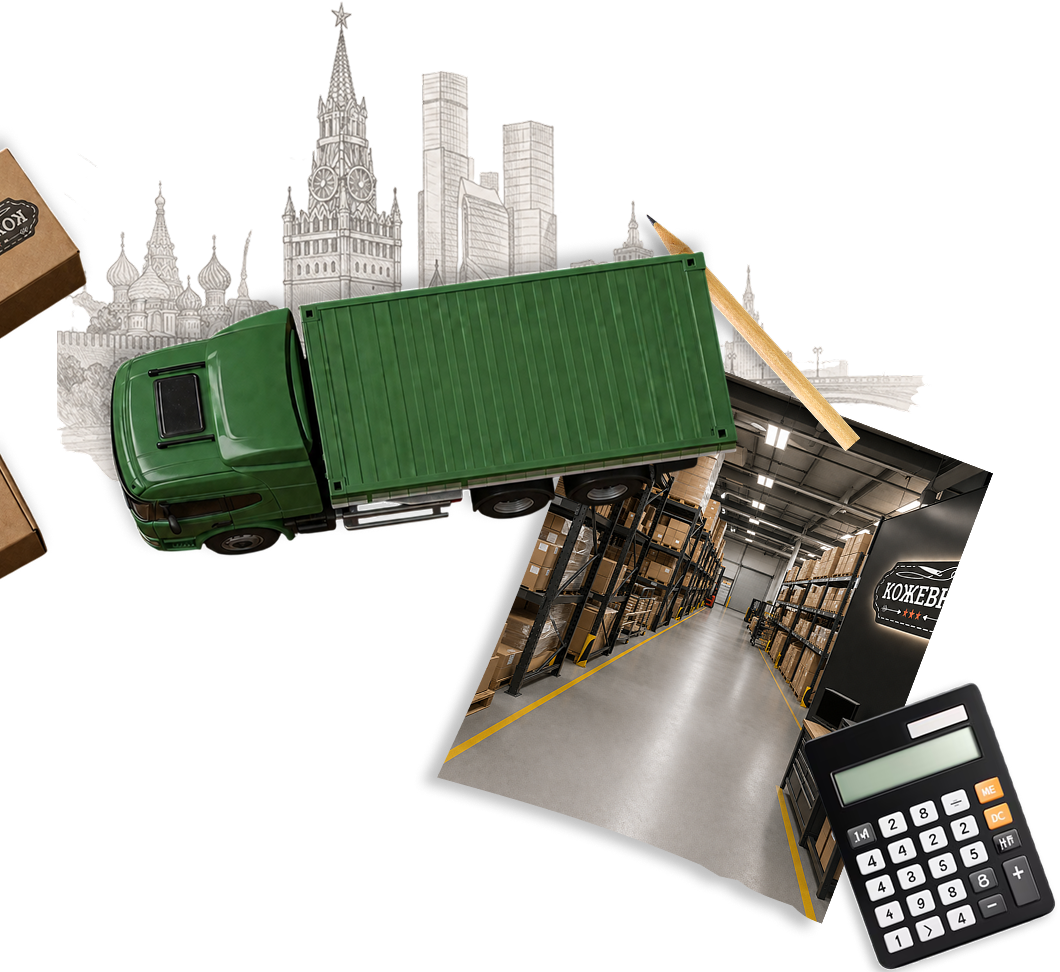
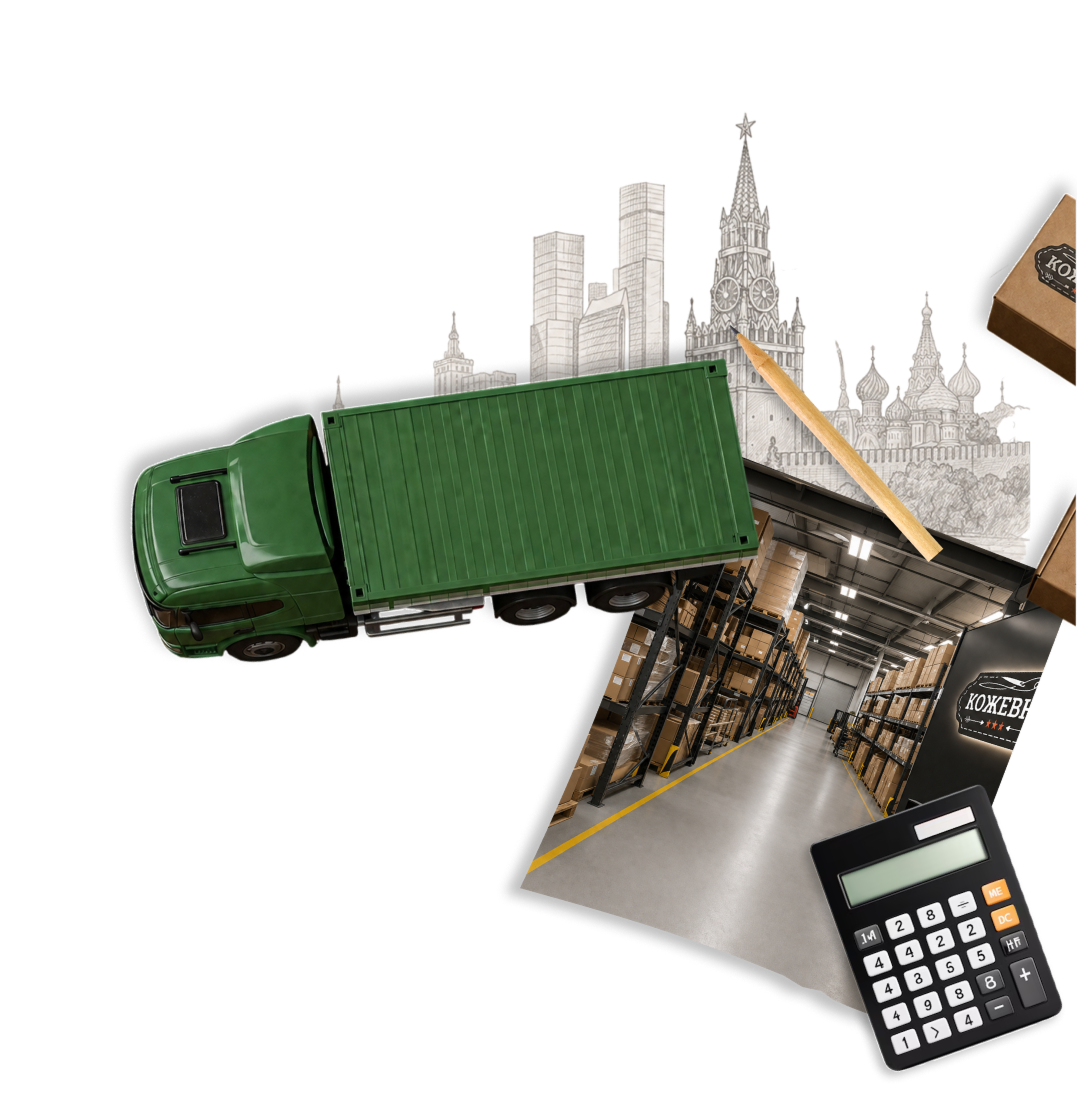
Обновление

diff --git a/css/styles.css b/css/styles.css
@@ -28,7 +28,7 @@
   --split-block-height: clamp(560px, 78vh, 860px);
   --products-visual-offset-top: clamp(48px, 9vh, 108px);
   --products-shift-y: clamp(100px, 15vh, 170px);
-  --nearby-visual-height: clamp(480px, 86vh, 920px);
+  --nearby-visual-height: clamp(560px, 100vh, 1120px);
   --process-visual-height: clamp(800px, 125vh, 1580px);
   --process-visual-top: clamp(56vh, 66vh, 76vh);
   --process-cards-height: clamp(165vh, 180vh, 185dvh);
@@ -486,8 +486,7 @@ a {
   user-select: none;
 }
 
-.competition__visual,
-.nearby__visual {
+.competition__visual {
   object-position: left;
 }
 
@@ -801,10 +800,11 @@ a {
 }
 
 .cases__top {
-  display: flex;
-  align-items: flex-start;
-  justify-content: space-between;
-  gap: clamp(24px, 4vw, 48px);
+  display: grid;
+  grid-template-columns: minmax(0, 1fr) auto;
+  align-items: start;
+  column-gap: clamp(24px, 4vw, 48px);
+  row-gap: clamp(24px, 2.8vh, 32px);
   width: 100%;
   flex-shrink: 0;
   position: relative;
@@ -812,15 +812,7 @@ a {
 }
 
 .cases__intro {
-  flex: 1 1 auto;
-  display: flex;
-  flex-direction: column;
-  align-items: flex-start;
-  width: auto;
-  max-width: min(100%, calc(var(--text-max-width) + 6vw));
-  box-sizing: border-box;
-  position: relative;
-  z-index: 2;
+  display: contents;
 }
 
 .cases__title {
@@ -829,6 +821,10 @@ a {
   align-items: flex-start;
   gap: 0.06em;
   line-height: 1;
+  grid-column: 1;
+  grid-row: 1;
+  width: auto;
+  max-width: min(100%, calc(var(--text-max-width) + 6vw));
 }
 
 .cases__title-line {
@@ -838,12 +834,14 @@ a {
 }
 
 .cases__text-group {
-  margin-top: clamp(24px, 2.8vh, 32px);
+  margin-top: 0;
   display: grid;
   gap: clamp(12px, 1.5vh, 16px);
   width: 100%;
   max-width: 42rem;
   background: transparent;
+  grid-column: 1;
+  grid-row: 2;
 }
 
 .cases__text-group .block__text {
@@ -855,7 +853,10 @@ a {
 .cases__btn {
   flex-shrink: 0;
   margin-top: 0;
-  align-self: flex-start;
+  align-self: start;
+  justify-self: end;
+  grid-column: 2;
+  grid-row: 2;
   width: fit-content;
   max-width: 100%;
   white-space: normal;
@@ -1399,14 +1400,14 @@ a {
 
 .block--nearby {
   display: grid;
-  grid-template-columns: minmax(0, 1fr) minmax(var(--text-min-track), var(--text-max-width));
+  grid-template-columns: minmax(var(--text-min-track), var(--text-max-width)) minmax(0, 1fr);
   align-items: center;
   padding: 0;
   background: transparent;
   z-index: 5;
   isolation: isolate;
   overflow: visible;
-  --nearby-tablet-anchor-x: 35%;
+  --nearby-tablet-anchor-x: 39%;
   --nearby-tablet-anchor-y: 78%;
   --nearby-tablet-anchor-y-offset: 0px;
   --nearby-tablet-width: 44%;
@@ -1414,7 +1415,7 @@ a {
 }
 
 .block--nearby .nearby__visual-slot {
-  grid-column: 1;
+  grid-column: 2;
   grid-row: 1;
   width: fit-content;
   max-width: 100%;
@@ -1423,6 +1424,7 @@ a {
   max-height: none;
   overflow: visible;
   align-self: center;
+  justify-self: end;
   position: relative;
   z-index: var(--z-visual);
   pointer-events: auto;
@@ -1436,22 +1438,23 @@ a {
   max-width: none;
   max-height: none;
   object-fit: contain;
-  object-position: left center;
+  object-position: right center;
 }
 
 .nearby__content {
   position: relative;
   z-index: var(--z-text);
-  grid-column: 2;
+  grid-column: 1;
   grid-row: 1;
   display: grid;
   grid-template-columns: minmax(min-content, 1fr);
-  justify-items: end;
+  justify-items: start;
   width: 100%;
   min-width: min-content;
   margin: 0;
   padding: clamp(12px, 2vh, 24px) clamp(20px, 3vw, 60px);
-  text-align: right;
+  padding-left: var(--text-gutter-left);
+  text-align: left;
   box-sizing: border-box;
 }
 
@@ -1472,10 +1475,10 @@ a {
 .nearby__title {
   display: flex;
   flex-direction: column;
-  align-items: flex-end;
+  align-items: flex-start;
   gap: 0.06em;
-  margin-left: auto;
-  text-align: right;
+  margin-left: 0;
+  text-align: left;
   width: 100%;
   max-width: 100%;
   line-height: 1;
@@ -1496,12 +1499,12 @@ a {
 
 .nearby__text-group .block__text {
   color: var(--muted);
-  margin-left: auto;
+  margin-left: 0;
 }
 
 .nearby__actions {
   margin-top: clamp(40px, 5vh, 64px);
-  justify-self: end;
+  justify-self: start;
 }
 
 .nearby__visual-stage {
@@ -1775,18 +1778,21 @@ body.nearby-tablet-expanded {
 .process__title {
   position: absolute;
   z-index: var(--z-text);
-  left: var(--text-gutter-left);
+  left: 50%;
   top: clamp(36px, 4.5vh, 68px);
   display: flex;
   flex-direction: column;
+  align-items: center;
   gap: 0.06em;
-  max-width: min(720px, 44vw);
+  max-width: min(920px, 90vw);
   margin: 0;
   font-size: var(--fs-title);
   font-weight: 400;
   line-height: 1.05;
   letter-spacing: -0.02em;
   text-transform: uppercase;
+  text-align: center;
+  transform: translateX(-50%);
 }
 
 .process__title-line {
@@ -2068,8 +2074,8 @@ body.nearby-tablet-expanded {
 
   .block--nearby[data-adaptive-block] {
     grid-template-columns:
-      minmax(0, 1fr)
-      minmax(var(--text-min-track), calc(var(--text-max-width) * (0.9 + 0.1 * var(--block-scale))));
+      minmax(var(--text-min-track), calc(var(--text-max-width) * (0.9 + 0.1 * var(--block-scale))))
+      minmax(0, 1fr);
   }
 
   .block--nearby[data-adaptive-block] .nearby__visual {
@@ -2458,6 +2464,10 @@ body.nearby-tablet-expanded {
     padding-left: var(--mobile-gutter);
     padding-right: var(--mobile-gutter);
     box-sizing: border-box;
+    transform: none;
+    text-align: center;
+    align-items: center;
+    width: 100%;
   }
 
   .process__title-line {
@@ -2832,7 +2842,7 @@ body.nearby-tablet-expanded {
   }
 
   .block--nearby {
-    --nearby-tablet-anchor-x: 42%;
+    --nearby-tablet-anchor-x: 34%;
     --nearby-tablet-anchor-y: 70%;
     --nearby-tablet-anchor-y-offset: 50px;
     --nearby-tablet-width: 74%;
@@ -2874,11 +2884,26 @@ body.nearby-tablet-expanded {
   }
 
   .cases__top {
+    display: flex;
     flex-direction: column;
   }
 
   .cases__intro {
+    display: flex;
+    flex-direction: column;
+    align-items: flex-start;
     max-width: none;
+  }
+
+  .cases__title,
+  .cases__text-group,
+  .cases__btn {
+    grid-column: auto;
+    grid-row: auto;
+  }
+
+  .cases__text-group {
+    margin-top: clamp(24px, 2.8vh, 32px);
   }
 
   .cases__title-line {
@@ -2933,6 +2958,12 @@ body.nearby-tablet-expanded {
   .site-footer__feedback,
   .site-footer__copy {
     text-align: left;
+  }
+
+  .process__title {
+    text-align: center;
+    align-items: center;
+    width: 100%;
   }
 
   .block__content .block__actions,

diff --git a/index.html b/index.html
@@ -388,11 +388,35 @@
       </section>
 
       <section class="block block--nearby" id="nearby" aria-labelledby="nearby-title">
-        <div class="visual-slot visual-slot--left nearby__visual-slot">
+        <div class="nearby__content">
+          <h2 id="nearby-title" class="block__title nearby__title">
+            <span class="nearby__title-line">Цена как у зарубежных</span>
+            <span class="nearby__title-line">производств, но&nbsp;рядом</span>
+          </h2>
+          <div class="nearby__text-group">
+            <p class="block__text">
+              Долгая доставка из&nbsp;Китая, Индии или Турции мешает вам
+              масштабироваться, &nbsp;не&nbsp;хочется переплачивать
+              локальным производителям?
+            </p>
+            <p class="block__text">
+              Наше производство находится в&nbsp;Москве и&nbsp;мы&nbsp;постоянно
+              дошиваем продукцию, что позволит вам быстро обслуживать растущий
+              спрос, а&nbsp;платить столько&nbsp;же.
+            </p>
+          </div>
+          <div class="block__actions nearby__actions">
+            <a class="btn btn--primary" href="#tour">
+              Записаться на экскурсию
+              <span class="btn__arrow" aria-hidden="true">→</span>
+            </a>
+          </div>
+        </div>
+        <div class="visual-slot visual-slot--right nearby__visual-slot">
           <div class="nearby__visual-stage">
             <img
               class="nearby__visual"
-              src="assets/nearby-production-collage.png"
+              src="assets/nearby-production-collage.png?v=20260814-1"
               alt=""
               width="1060"
               height="972"
@@ -441,30 +465,6 @@
                 </svg>
               </button>
             </div>
-          </div>
-        </div>
-        <div class="nearby__content">
-          <h2 id="nearby-title" class="block__title nearby__title">
-            <span class="nearby__title-line">Цена как у зарубежных</span>
-            <span class="nearby__title-line">производств, но&nbsp;рядом</span>
-          </h2>
-          <div class="nearby__text-group">
-            <p class="block__text">
-              Долгая доставка из&nbsp;Китая, Индии или Турции мешает вам
-              масштабироваться, &nbsp;не&nbsp;хочется переплачивать
-              локальным производителям?
-            </p>
-            <p class="block__text">
-              Наше производство находится в&nbsp;Москве и&nbsp;мы&nbsp;постоянно
-              дошиваем продукцию, что позволит вам быстро обслуживать растущий
-              спрос, а&nbsp;платить столько&nbsp;же.
-            </p>
-          </div>
-          <div class="block__actions nearby__actions">
-            <a class="btn btn--primary" href="#tour">
-              Записаться на экскурсию
-              <span class="btn__arrow" aria-hidden="true">→</span>
-            </a>
           </div>
         </div>
       </section>
